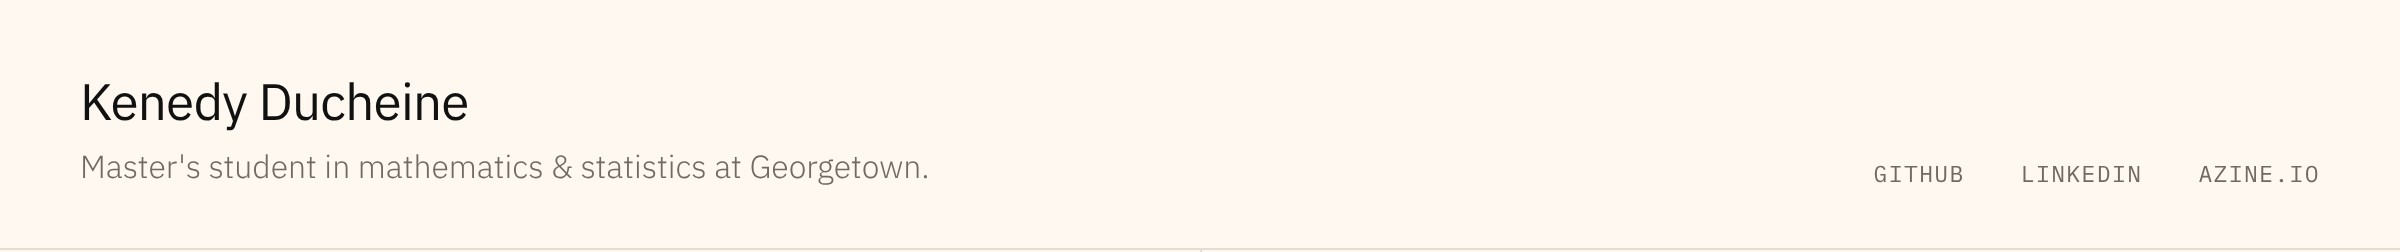
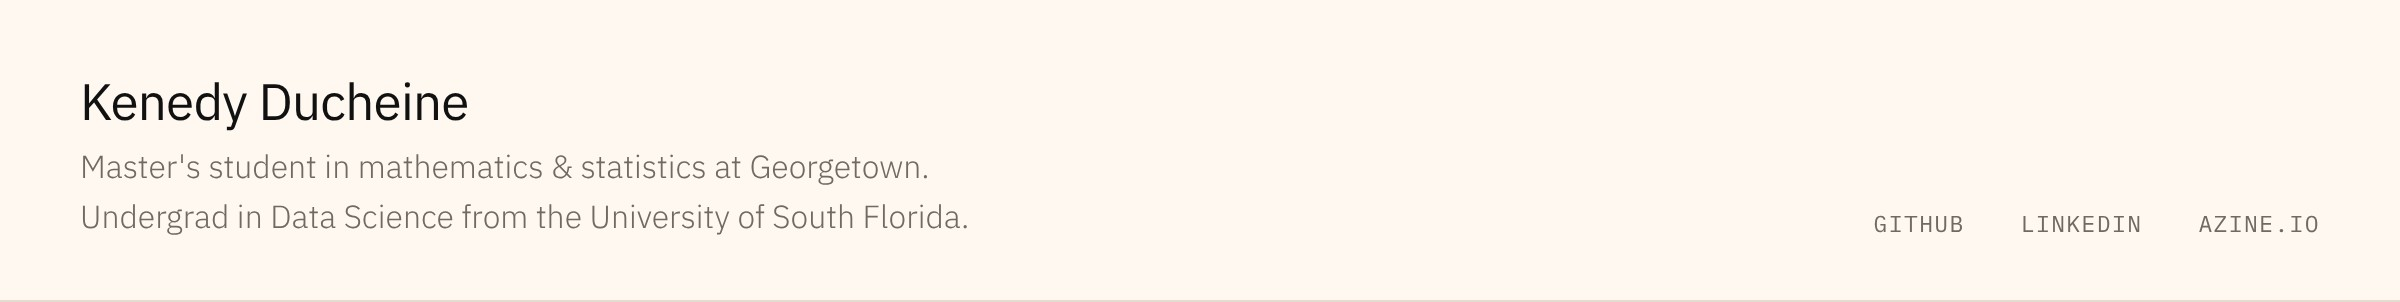
Add undergrad line under the intro
Claude-Session: https://claude.ai/code/session_01PkmCYtUnWQ1merBdu7fFhi

Changed region(s): [[0.0312, 0.2778, 0.4062, 0.7778], [0.0, 0.9722, 1.0, 1.0], [0.7812, 0.6389, 0.9688, 0.7778]]

diff --git a/README.md b/README.md
@@ -4,7 +4,7 @@
      part of the pictures: to change what shows, change the site, then
      re-make the pictures from it. -->
 
-<a href="https://kenedyducheine.github.io"><img src="images/header.jpg" alt="Kenedy Ducheine. Master's student in mathematics and statistics at Georgetown. GitHub, LinkedIn, azine.io." width="100%"></a>
+<a href="https://kenedyducheine.github.io"><img src="images/header.jpg" alt="Kenedy Ducheine. Master's student in mathematics and statistics at Georgetown. Undergrad in Data Science from the University of South Florida. GitHub, LinkedIn, azine.io." width="100%"></a>
 
 <a href="https://kenedyducheine.github.io"><img src="images/projects.jpg" alt="Projects in two columns. Math: Statistical Crime Analysis (2026, point processes) and Reed-Muller Codes (2025, coding theory). Computer science: azine, Grid Paper Notes, Operation Negative One, Harris and Walz on Reddit, colorblindpalette, and Pop Song Streams." width="100%"></a>
 
